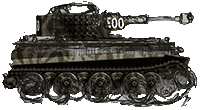
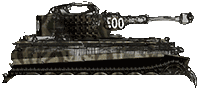
not perfect, but started working with multiple objects on a page.

Changed region(s): [[0.0, 0.6818, 0.99, 0.9818]]

diff --git a/app/keyboard/touch/Right.js b/app/keyboard/touch/Right.js
@@ -6,7 +6,7 @@ class Right extends Component{
         this.moveRight = this.moveRight.bind(this);
         this.stop = this.stop.bind(this);
         this.state = {
-            trans: 0,
+            trans: 2,
             property: 'transform'
         };
     }
@@ -16,15 +16,13 @@ class Right extends Component{
               wheel = document.getElementsByClassName('wheel'),
               keyCode = e.keyCode;
 
-        for(let i = 0; i < wheel.length; i++){
-            wheel[i].classList.add("spin");
-        }
-
-
         if(keyCode === 39) {
             this.setState({trans: this.state.trans += 2});
             tank.style[this.state.property] = 'translateX(' + this.state.trans + 'rem)';
             tank.classList.add('move-right');
+            Object.values(wheel).forEach((i) => {
+                i.classList.add("spin");
+            });
         }
     }
 
@@ -34,9 +32,9 @@ class Right extends Component{
 
         tank.classList.remove('move-right');
 
-        for(let i = 0; i < wheel.length; i++){
-            wheel[i].classList.remove("spin");
-        }
+        Object.values(wheel).forEach((i) => {
+            i.classList.remove("spin");
+        });
     }
 
     componentDidMount() {

diff --git a/app/styles/components/tank/wheel.less b/app/styles/components/tank/wheel.less
@@ -1,39 +1,14 @@
 .wheel {
-    box-shadow: inset -6px -48px 87px 5px rgba(0,0,0,0.1);
     border-radius: 50%;
-    border: 4px dotted lighten(@black, 60%);
     display: inline-block;
     position: relative;
     background: url(~"/images/wheelx200.png") no-repeat center;
-    background-size: cover;
-    height: 5rem;
-    width: 5rem;
+    background-size: contain;
+    height: 6rem;
+    width: 6rem;
+    top: -0.5rem;
 
     &.spin {
-        .spin(@duration: 500ms, @count: infinite);
-    }
-
-    &::after {
-        opacity: 0.7;
-        position: absolute;
-        content: '';
-        width: 4rem;
-        height: 4rem;
-        border-radius: 50%;
-        border: 5px dashed lighten(@black, 10%);
-    }
-
-    &:last-child,
-    &:first-child {
-        width: 5.3rem;
-        height: 5.3rem;
-    }
-
-    &:last-child {
-        top: -1.5rem;
-    }
-
-    &:first-child {
-        top: -0.75rem;
+        .spin(@duration: 1s, @count: infinite);
     }
 }

diff --git a/app/styles/components/tank/tank.less b/app/styles/components/tank/tank.less
@@ -1,6 +1,6 @@
 .tank {
     display: flex;
-    top:10rem;
+    top:7rem;
     align-items: flex-end;
     z-index: 2;
     .gameObj(@width: 34rem, @height: 34rem, @imageUrl: ~"/images/tankx200.png");
@@ -16,17 +16,5 @@
         z-index: 1;
         border-bottom-right-radius: 2.5rem;
         border-bottom-left-radius: 2.5rem;
-    }
-
-    &::before {
-        box-shadow: inset 0 31px 38px -29px rgba(0,0,0,0.5);
-        bottom: 5rem;
-        height: 3rem;
-        transform: scale(-1, -1);
-    }
-
-    &::after {
-        box-shadow: inset -4px -44px 41px -42px rgba(0,0,0,0.9);
-        bottom: 1rem;
     }
 }

diff --git a/app/styles/components/tank/axel.less b/app/styles/components/tank/axel.less
@@ -1,10 +1,12 @@
 .axel {
+    margin: 0 auto;
     display: flex;
     align-items: flex-end;
-    justify-content: space-evenly;
-    @rectWidth: calc(@spacingDouble ~'*'~`16`);
-    @rectHeight: calc(@spacingDouble ~'*'~`3.2`);
+    justify-content: flex-start;
+    @rectWidth: calc(@spacingDouble ~'*'~`15`);
+    @rectHeight: calc(@spacingDouble ~'*'~`3`);
     position: relative;
+    top: -0.5rem;
     width: @rectWidth;
     height: @rectHeight;
 }

diff --git a/app/styles/components/foundation/house.less b/app/styles/components/foundation/house.less
@@ -1,9 +1,9 @@
 .foundation {
     .house {
         display: flex;
-        .gameObj(@width: 75rem, @height: 35rem, @imageUrl: ~"/images/bg-capital.png");
+        bottom: -0.5rem;
+        .gameObj(@width: 75rem, @height: 25rem, @imageUrl: ~"/images/bg-capital.png");
         position: absolute;
-        bottom: -2rem;
         background-position: top center;
         left: 0;
         right: 0;

diff --git a/app/styles/animations/spin.less b/app/styles/animations/spin.less
@@ -1,4 +1,4 @@
-.spin(@name: spin, @startDegree: 0deg, @finishDegree: 360deg, @duration: 0, @count: 0, @timing: linear, @mode: none) {
+.spin(@name: spin, @startDegree: 0deg, @finishDegree: 360deg, @duration: 0, @count: 0, @timing: linear, @mode: forwards) {
     @keyframes spin {
         0% {
             transform: rotate(@startDegree);

diff --git a/app/styles/app.less b/app/styles/app.less
@@ -4,6 +4,11 @@
 @import "resets/global-reset.less";
 @import "variables/_all.less";
 
+html {
+    background-color: fade(@black, 90%);
+    overflow: hidden;
+}
+
 main {
     background-color: @blue-bg;
     position: relative;
